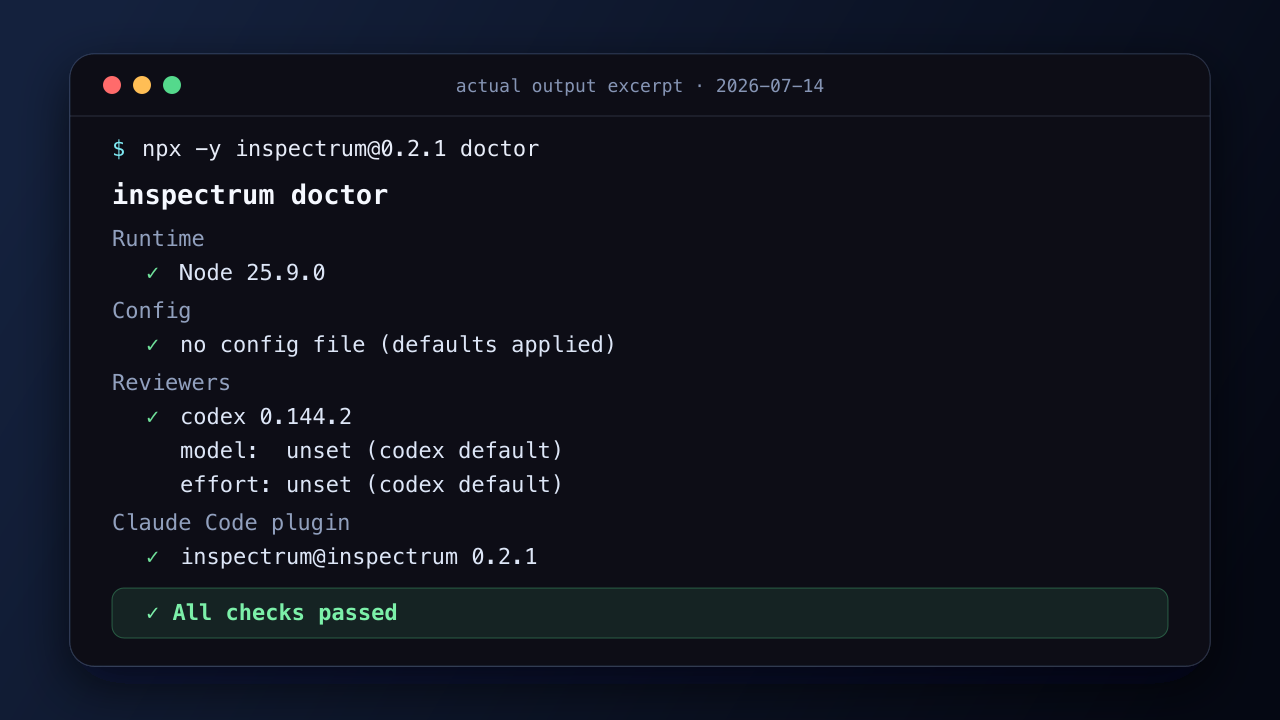
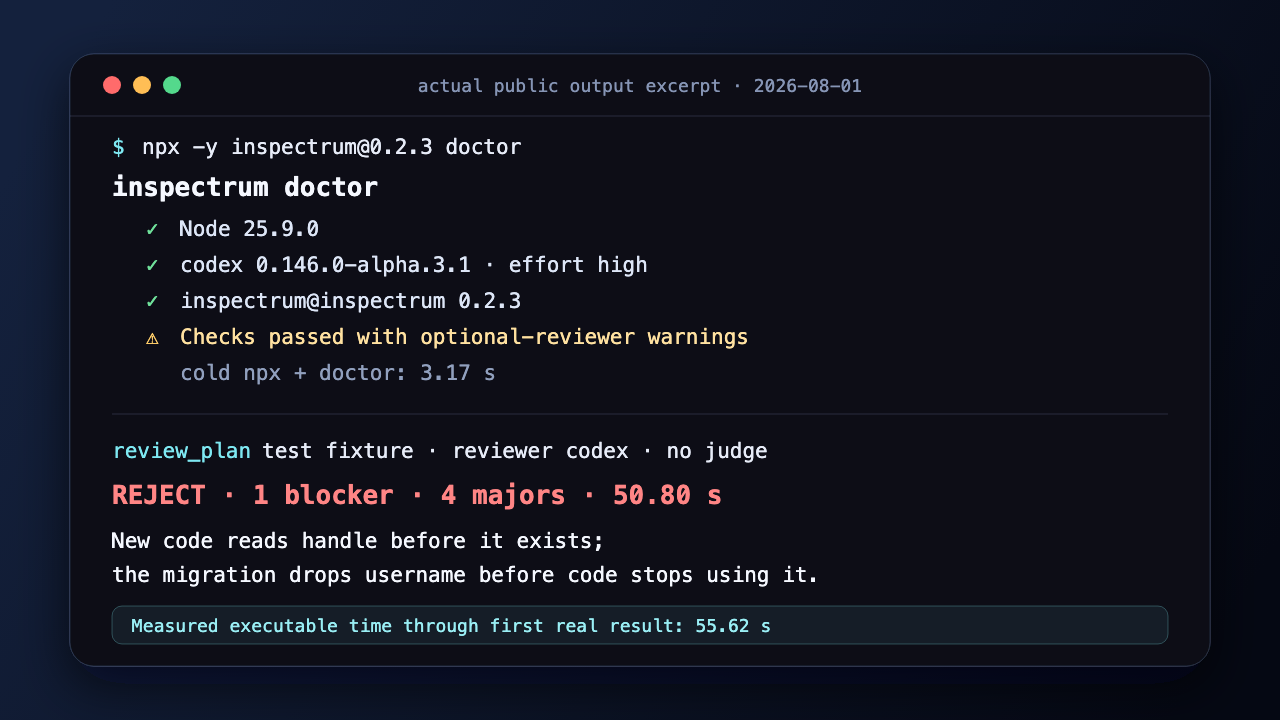
docs(activation): add public 0.2.3 evidence (#49)
Record fresh-cache npx, doctor, host-config, and real-review timings; replace the 0.2.1 terminal visual; add three labeled fixture/failure cases, a 75-second demo, an empty 12-user protocol, and dated public status facts.

Verified build, typecheck, lint, 52 targeted tests, 464-test coverage, public submission checks, Claude plugin validation, links, dependency audit, and secret/path scan. mcp-publisher was unavailable. Cold-user activation remains unmeasured and the tracker remains empty.

diff --git a/docs/activation/README.md b/docs/activation/README.md
@@ -1,0 +1,145 @@
+# Public activation evidence for Inspectrum 0.2.3
+
+Captured on 2026-08-01 from an empty directory outside the repository, with a
+fresh npm cache. The machine already had Node, Claude Code, Codex CLI, and both
+reviewer logins. This proves the public package path on a prepared machine. It
+does not prove that a newly recruited person can finish in under ten minutes;
+the external protocol tracks that separately.
+
+## Measured path
+
+| Step | Command or action | Wall time | Result |
+|---|---|---:|---|
+| Cold package fetch and health check | `npx -y inspectrum@0.2.3 doctor` | 3.17 s | exited 0; operational, with warnings for optional backends |
+| Claude project setup and connection check | `claude mcp add ...` then `claude mcp get inspectrum` | 1.58 s | connected to the pinned public package |
+| Codex one-run config check | `codex -c ... mcp get inspectrum` | 0.07 s | enabled stdio server resolved |
+| First real review | `review_plan`, reviewer `codex`, no judge | 50.80 s | `reject`, one blocker and four majors |
+
+Measured executable time to the first result: **55.62 seconds**. This sum
+excludes prerequisite installation, account sign-in, reading, typing, and
+human approval time. The complete health-check transcript and the first report
+are in [`assets/brand/terminal-doctor.txt`](../../assets/brand/terminal-doctor.txt).
+
+Reproduce the package and host checks from any directory that is not an
+Inspectrum checkout:
+
+```bash
+npx -y inspectrum@0.2.3 doctor
+claude mcp add --transport stdio --scope project inspectrum -- npx -y inspectrum@0.2.3
+claude mcp get inspectrum
+codex -c 'mcp_servers.inspectrum.command="npx"' \
+  -c 'mcp_servers.inspectrum.args=["-y","inspectrum@0.2.3"]' \
+  mcp get inspectrum
+```
+
+The Codex project equivalent is a trusted-project `.codex/config.toml`:
+
+```toml
+[mcp_servers.inspectrum]
+command = "npx"
+args = ["-y", "inspectrum@0.2.3"]
+tool_timeout_sec = 330
+```
+
+## One-time public status check
+
+Checked once on 2026-08-01, with no publish or resubmission action:
+
+- the repository release check passed for [npm 0.2.3](https://www.npmjs.com/package/inspectrum/v/0.2.3) and [GitHub v0.2.3](https://github.com/yannmenec/inspectrum/releases/tag/v0.2.3);
+- the [Glama page](https://glama.ai/mcp/servers/yannmenec/inspectrum) and its API returned HTTP 200 with the Inspectrum repository;
+- the public [Claude Community catalog](https://github.com/anthropics/claude-plugins-community) contained no `inspectrum` entry;
+- PulseMCP returned HTTP 403 for both its search and candidate slug, so no current listing claim is made;
+- the MCP Registry was deliberately not republished or rechecked for 0.2.3 and may still show 0.2.2.
+
+## Three reproducible cases
+
+These are single observations from 0.2.3, not accuracy statistics. The source
+plans remain fixed so another run can disagree visibly.
+
+### 1. Useful finding: destructive database migration
+
+Plan: [`missing-rollback.md`](../../tests/fixtures/plans/missing-rollback.md),
+an Inspectrum test fixture purpose-built to exercise the blocker/major path.
+Its critical sequence deploys code that reads `handle`, adds and backfills that
+column, drops `username`, then deploys code that stops using `username`.
+
+Observed response, Codex reviewer, 50.80 s:
+
+```text
+REJECT: 1 blocker, 4 majors
+Migration Steps 1-3 are not mutually compatible as written. Step 1 deploys
+code that reads both username and handle before handle exists, while Step 2
+drops username before Step 3 removes the application's dependency on it.
+```
+
+Ground truth: the planted unsafe ordering is visible in the plan itself. A
+compatible sequence must add the new column before code reads it and retain the
+old column until deployed code no longer needs it. Limit: success on a
+purpose-built fixture does not predict performance on arbitrary user plans;
+the run did not execute PostgreSQL or measure production locks.
+
+Reproduce: submit the fixture to `review_plan` with `reviewers: ["codex"]`,
+`focus: "all"`, and `judge: false`.
+
+### 2. Null result: small health endpoint
+
+Plan: [`trivial-correct.md`](../../tests/fixtures/plans/trivial-correct.md), an
+Inspectrum test fixture purpose-built to exercise the approve path. It adds
+`GET /healthz`, adds one unit test, updates the endpoint table, and requires
+existing tests and continuous integration to stay green.
+
+Observed response, Codex reviewer, 9.00 s:
+
+```text
+APPROVE
+No issues found.
+```
+
+Ground truth: the response added no finding to triage. Limit: a null result on
+a purpose-built fixture does not prove the plan correct or predict arbitrary
+plans, and no Express repository was supplied or executed.
+
+Reproduce with the same arguments as case 1 and the trivial fixture.
+
+### 3. Visible degradation: reviewer unavailable
+
+Plan:
+
+```text
+# Plan: destructive migration
+1. Drop the production users table.
+2. Recreate it with the new schema.
+```
+
+The public `plan-gate` command ran with a `PATH` containing Node and npx but no
+Codex binary. Observed response, 0.67 s:
+
+```text
+inspectrum plan-gate skipped: All reviewers failed:
+  - Reviewer codex failed: Codex reviewer failed to start: spawn codex ENOENT.
+Plan proceeds unreviewed.
+```
+
+Ground truth: `codex` was deliberately absent from that process path and the
+output contains no deny decision, so the Claude approval flow remains open.
+Limit: this reproduces a missing binary, not token exhaustion or an outage.
+
+## 75-second demo script
+
+Purpose: show the checkpoint before an action that is difficult to undo, not a
+general multi-model feature tour.
+
+| Time | Screen | Voiceover |
+|---:|---|---|
+| 0-8 s | Production migration plan, with `DROP COLUMN username` highlighted | "This plan changes twelve million rows and drops the old column." |
+| 8-16 s | Claude Code reaches `ExitPlanMode` | "The risky moment is plan exit, before execution begins." |
+| 16-28 s | Inspectrum starts the pinned Codex review | "Inspectrum inserts one independent, read-only checkpoint. I do not need to remember a prompt." |
+| 28-45 s | Real `REJECT` excerpt from case 1 | "Codex catches the incompatible order: new code reads a column before it exists, then the migration removes the fallback too early." |
+| 45-57 s | Revised expand-and-contract steps | "The plan now adds first, dual-writes, validates, deploys handle-only code, and delays the destructive drop." |
+| 57-68 s | Second `ExitPlanMode`, then normal approval dialog | "A clean review never approves for me. My normal human approval dialog still appears." |
+| 68-75 s | End card: `npx inspectrum@0.2.3 doctor` and this evidence URL | "The public 0.2.3 path is reproducible; the report and its limits are linked." |
+
+Recording rules: use the fixture and real output above, keep the session path
+visible only if it contains no private path, and do not splice a fake approve
+after the rejection. If the reviewer fails during recording, show the visible
+fail-open warning from case 3 instead of hiding it.

diff --git a/assets/brand/README.md b/assets/brand/README.md
@@ -1,14 +1,22 @@
 # Brand and evidence assets
 
-The SVG files are the editable sources. PNGs were rasterized at the declared dimensions with Sharp `0.34.5` / libvips `8.17.3`, SVG density 72, explicit resize and PNG compression level 9. No generative image model was used.
+The SVG files are the editable sources. The icon and social preview were
+rasterized with Sharp `0.34.5` / libvips `8.17.3`. The terminal proof was
+rasterized at 1280x720 with headless Chrome `150.0.7871.187`. No generative
+image model was used.
 
 | Asset | Dimensions | Purpose and alt text |
 |---|---:|---|
 | `inspectrum-icon.png` | 512×512 | Icon. Alt: “A magnifying lens crossing cyan, violet and amber spectrum bands on a dark field.” |
 | `social-preview.png` | 1280×640 | GitHub social preview. Alt: “Inspectrum wordmark beside a spectrum magnifying lens: Review the plan. Keep the human gate.” |
-| `terminal-doctor.png` | 1280×720 | Static evidence fallback. Alt: “Actual Inspectrum 0.2.1 doctor output excerpt showing Node, default config, Codex 0.144.2, plugin 0.2.1 and all checks passed.” |
+| `terminal-doctor.png` | 1280×720 | Public evidence. Alt: “Actual Inspectrum 0.2.3 run: doctor passed with optional-reviewer warnings in 3.17 seconds, then Codex rejected an unsafe migration plan in 50.80 seconds.” |
 
-`terminal-doctor.txt` is the full accessible source transcript. It came from the published npm package in an empty working directory and empty `HOME`, with the public plugin freshly installed and existing Codex authentication referenced separately. The temporary home path was replaced with `$FRESH_HOME`; non-product wrapper/update notices were excluded. The SVG is explicitly an excerpt and omits the session path and optional-reviewer warnings.
+`terminal-doctor.txt` is the accessible source transcript. It came from the
+published 0.2.3 npm package in an empty working directory with a fresh npm
+cache. Existing Node, reviewer CLIs, logins, user config, and public plugin
+installs were reused. Home paths were normalized to `$USER_HOME`; npm update
+notices were excluded. Failures, warnings, timings, and measurement limits were
+preserved; the first report is an excerpt. The SVG is explicitly an excerpt.
 
 Visual inspection was performed at original resolution after rasterization. Sample text/background contrast ratios were 17.74:1 (primary), 13.07:1 (body), 12.84:1 (cyan), 7.47:1 (terminal muted) and 11.44:1 (success), all above WCAG AA text thresholds.
 
@@ -19,7 +27,7 @@ Visual inspection was performed at original resolution after rasterization. Samp
 8c6e76be28967c9a3603532d55ffff028c823eeac6f0cf41d7176cacba464965  inspectrum-icon.png
 26f3350e5a03d112c996507ec6e303455e40bd505d6ba41813e1b80f613f4f76  social-preview.svg
 e2d599c8578eb6a7c3f90937939457da3111d9ffdedcd00269584fa2aa9cb44d  social-preview.png
-aca0508fc0c18d239f9a0e4ba13bfceac5959832af48a444e6940cc25a9a6be3  terminal-doctor.svg
-12897044e2f747547bd201843a0b7d3bdc12166252a98c8353c30a04d68fc237  terminal-doctor.png
-aad9ff8defabc905580df3aed56d0514bab28dc33e99d97ff7005a6aa2b63a57  terminal-doctor.txt
+6f8eeadb66bd09eeca2953f607c8a44e8d2e7ec53f762e1926add8f632dc27ee  terminal-doctor.svg
+111eda8d04e68429ece2bae00de6d2daf111ac948ebe88c80d3e412de4c19e4f  terminal-doctor.png
+7db8b3eace689520eb10510b80810e4fa804a2c67e369d24027d19634c8059ed  terminal-doctor.txt
 ```

diff --git a/docs/activation/external-tracker.md b/docs/activation/external-tracker.md
@@ -1,0 +1,49 @@
+# External activation protocol
+
+Goal: observe 12 consenting external users, including at least 6 with no prior
+relationship to the maintainer, from invitation to possible second use. This
+file contains no participants or results yet.
+
+## Procedure
+
+1. Recruit 6 or more cold participants through individual, relevant outreach;
+   recruit the remainder from existing contacts. Do not post or send anything
+   until outreach is separately authorized.
+2. Send only the public README. Do not coach unless the participant asks; log
+   every hint because it changes the activation result.
+3. Start the timer when the participant opens the install instructions. Stop
+   it when the first real `review_plan` result appears, or record abandonment.
+4. Record the result as useful finding, no useful addition, operational
+   failure, or abandoned. Keep the participant's wording in the notes.
+5. Seven days later, ask whether a second real review occurred. Do not infer a
+   second use from an install, star, or stated intention.
+
+Success for one participant means a real review in under 10 minutes. Report
+raw counts and times only after data exist; do not claim statistical validity.
+
+## Empty tracker
+
+| Participant ID | Source | Cold? | Start UTC | First result UTC | Time to first review | Result | Abandon point/reason | Hints given | Second use by day 7? | Evidence link |
+|---|---|---|---|---|---:|---|---|---|---|---|
+
+Use pseudonymous IDs. Evidence links must point to an authorized, redacted
+transcript; never store names, email addresses, tokens, or private plans here.
+
+## Approach messages
+
+Cold outreach:
+
+> I am testing whether a small open-source checkpoint for Claude Code plans is
+> understandable without coaching. Would you be willing to try the public
+> install and one real plan review while I time the path? I want to learn
+> whether it can be completed in under ten minutes; that is the test, not a
+> promise. I will record only a pseudonymous source category, elapsed time,
+> result, abandonment reason, and whether you use it again within seven days.
+> No posting or endorsement is requested.
+
+Existing contact:
+
+> Could you test Inspectrum from its public README and run one real plan review?
+> I am measuring time to first result, what blocked you, and whether you use it
+> a second time within seven days. Please avoid secrets in the plan. I will not
+> quote or identify you without separate permission.

diff --git a/README.md b/README.md
@@ -41,11 +41,17 @@ Inspectrum is for the repeatable checkpoint. In Claude Code, the plugin runs at 
 Recreating those guarantees with a skill means maintaining the orchestration, output validation, health checks, failure policy, and session record yourself.
 
 Public availability as of 1 August 2026:
-[npm 0.2.2](https://www.npmjs.com/package/inspectrum/v/0.2.2),
-[GitHub release](https://github.com/yannmenec/inspectrum/releases/tag/v0.2.2),
-[MCP Registry](https://registry.modelcontextprotocol.io/), and
-[Glama](https://glama.ai/mcp/servers/yannmenec/inspectrum). The Claude Community
-submission is pending, and Inspectrum is not listed on PulseMCP.
+[npm 0.2.3](https://www.npmjs.com/package/inspectrum/v/0.2.3), the
+[GitHub release](https://github.com/yannmenec/inspectrum/releases/tag/v0.2.3),
+and the repository's Claude and Codex plugins are aligned on 0.2.3.
+[Glama](https://glama.ai/mcp/servers/yannmenec/inspectrum) is public. The MCP
+Registry may still show 0.2.2; it was not republished in this pass. Inspectrum
+was not in the public Claude Community catalog, while PulseMCP blocked the
+one-time recheck with HTTP 403, so no current PulseMCP listing claim is made.
+
+The [public 0.2.3 activation evidence](docs/activation/README.md) records exact
+commands, timings, one useful finding, one null result, one visible fail-open
+case, and the limits of the measurement.
 
 ## Quick start
 

diff --git a/docs/strategy/outcome-moat-roadmap-post-0.2.2.md b/docs/strategy/outcome-moat-roadmap-post-0.2.2.md
@@ -338,12 +338,13 @@ contrat, les mêmes preuves et le même actif de calibration.
 
 ## État au 1er août et prochains pas
 
-1. npm 0.2.2, la release GitHub, le MCP Registry et Glama sont disponibles ;
-2. Claude Community reste en attente et PulseMCP reste absent ;
-3. remplacer la capture terminal 0.2.1 seulement par une preuve publique 0.2.2
-   reproductible ;
-4. exécuter `doctor` et un checkpoint non artificiel hors checkout ;
-5. publier la démonstration, le cas réel et le résultat nul ;
+1. npm, la release GitHub et les plugins publics sont alignés sur 0.2.3 ;
+2. Glama est public, le MCP Registry peut encore afficher 0.2.2, Claude
+   Community ne liste pas Inspectrum et PulseMCP n'a pas pu être revérifié ;
+3. la preuve 0.2.3 hors checkout, la démonstration, le cas utile, le résultat
+   nul et la dégradation visible sont publiés dans `docs/activation/` ;
+4. exécuter le protocole d'activation externe sans inventer de participants ;
+5. publier ensuite les résultats bruts et les abandons ;
 6. aligner description GitHub et catalogues quand leur statut change ;
 7. lancer la boucle GitHub décrite dans
    [github-star-growth-loop.md](github-star-growth-loop.md) ;

diff --git a/docs/distribution/0.2.2-submission-kit.md b/docs/distribution/0.2.2-submission-kit.md
@@ -106,13 +106,12 @@ guides requires a screenshot.
 |---|---|---|
 | `assets/brand/inspectrum-icon.png` (512x512) | Ready | Required for the OpenAI Plugin Directory; optional elsewhere |
 | `assets/brand/social-preview.png` (1280x640) | Ready | Optional wide preview |
-| `assets/brand/terminal-doctor.png` (1280x720) | Archived | Real 0.2.1 evidence; never present it as 0.2.2 |
+| `assets/brand/terminal-doctor.png` (1280x720) | Current | Real public 0.2.3 prepared-machine evidence; limits are stated in the transcript |
 
-The terminal capture remains unchanged because it is accurately labeled 0.2.1.
-Replace it only after installing public `inspectrum@0.2.2` in an empty
-temporary environment and obtaining a green validation. Preserve the
-transcript; update hashes and provenance in `assets/brand/README.md`; exclude
-credentials, real home paths, tokens, and private plan content.
+The historical 0.2.1 capture was replaced after a public 0.2.3 run outside the
+checkout. The source transcript preserves failures, warnings, timings, and
+measurement limits while normalizing home paths and excluding credentials,
+tokens, and private plan content.
 
 ## Release evidence and remaining checks
 

diff --git a/docs/strategy/github-star-growth-loop.md b/docs/strategy/github-star-growth-loop.md
@@ -101,12 +101,12 @@ concours sans rapport avec le produit.
 
 ### État public au 1er août 2026
 
-- npm 0.2.2 et la release GitHub sont disponibles ;
-- le MCP Registry et Glama référencent Inspectrum ;
-- la soumission Claude Community est en attente ;
-- PulseMCP ne référence pas encore Inspectrum ;
-- la capture terminal reste une preuve 0.2.1 et ne doit pas être présentée
-  comme une preuve 0.2.2.
+- npm, la release GitHub et les plugins publics sont alignés sur 0.2.3 ;
+- Glama référence Inspectrum ; le MCP Registry peut encore afficher 0.2.2 ;
+- Inspectrum n'apparaît pas dans le catalogue public Claude Community ;
+- PulseMCP n'a pas pu être revérifié, car le site a répondu HTTP 403 ;
+- la capture terminal est une preuve publique 0.2.3 sur machine déjà préparée,
+  pas une preuve d'activation par un utilisateur recruté à froid.
 
 ### J0 à J2
 

diff --git a/docs/strategy/README.md b/docs/strategy/README.md
@@ -38,12 +38,12 @@ plus d'autorité d'exécution.
 
 | Canal | État au 1er août 2026 |
 |---|---|
-| npm | disponible en version 0.2.2 |
-| GitHub | dépôt et release 0.2.2 disponibles |
-| MCP Registry | version 0.2.2 disponible |
+| npm | disponible en version 0.2.3 |
+| GitHub | dépôt, release et plugins 0.2.3 disponibles |
+| MCP Registry | peut encore afficher la version 0.2.2 ; aucune republication tentée |
 | Glama | fiche Inspectrum disponible |
-| Claude Community | soumission en attente |
-| PulseMCP | aucune fiche Inspectrum observée |
+| Claude Community | absent du catalogue public vérifié |
+| PulseMCP | non revérifié : le site a répondu HTTP 403 |
 
 ## Portefeuille fermé
 
